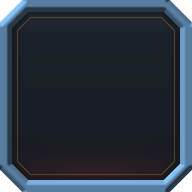
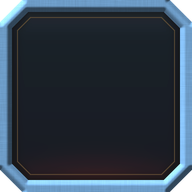
RARE MINDS: the Soul Race is the main view of the match — during the answer window the cars sit on the track at their souls with each player's live typing, skulls and death-zone flag in the lane; a car revs and leaps when its player locks in; after the reveal they drive on. Each character always dri

Changed region(s): [[0.0, 0.0, 1.0, 1.0]]

diff --git a/core/src/main/java/com/erni/finalanswer/rareminds/RareMindsRace.java b/core/src/main/java/com/erni/finalanswer/rareminds/RareMindsRace.java
@@ -14,7 +14,19 @@ import java.util.*;
 final class RareMindsRace {
     /** one lane as the screen hands it over */
     record Lane(String name,String character,String answer,boolean answered,boolean valid,boolean collided,int sharedWith,boolean ghost,
-                int tier,double share,int earned,boolean jackpot,int jackpotSouls,boolean eliminated,boolean resurrected,long fromSouls,long souls){}
+                int tier,double share,int earned,boolean jackpot,int jackpotSouls,boolean eliminated,boolean resurrected,long fromSouls,long souls,
+                String live,boolean locked,float lockAge,int skulls,boolean zone){
+        /** a lane during the answer window: cars parked at their souls, live typing in the left column */
+        static Lane waiting(String name,String character,boolean ghost,long souls,String live,boolean locked,float lockAge,int skulls,boolean zone){
+            return new Lane(name,character,"",false,false,false,0,ghost,0,0,0,false,0,false,false,souls,souls,live,locked,lockAge,skulls,zone);}
+    }
+    /** Each character always drives the same colour (never recoloured by state: easy to follow across the match). */
+    static Color carColor(String character){return switch(character==null?"":character){
+        case "skeleton"->new Color(.92f,.90f,.84f,1);case "ghost"->new Color(.45f,.85f,1f,1);case "zombie"->new Color(.45f,.85f,.35f,1);case "dracula"->new Color(.85f,.12f,.16f,1);
+        case "pumpkin"->new Color(1f,.55f,.12f,1);case "plague_doctor"->new Color(.62f,.42f,.95f,1);case "voodoo"->new Color(.98f,.80f,.25f,1);case "puppeteer"->new Color(.25f,.45f,1f,1);
+        default->new Color(.8f,.8f,.8f,1);};}
+    /** smoothed lane slot per player (lanes are ordered by souls and slide when someone overtakes) */
+    private final Map<String,Float> slot=new HashMap<>();private final Map<String,Integer> lastRank=new HashMap<>();private final Map<String,Float> upAt=new HashMap<>();private float lastClock=-1;
     static final float START=.9f,STAGGER=.12f,DRIVE=2.4f;
     /** shares at the zone boundaries (same as the server tiers) and the scale ends */
     private static final double TOP=.25,BOTTOM=.0015;private static final double[] EDGES={.080,.045,.022,.010,.004};
@@ -24,9 +36,10 @@ final class RareMindsRace {
     private static float pos(double share){return MathUtils.clamp((float)((Math.log(TOP)-Math.log(Math.max(share,1e-6)))/(Math.log(TOP)-Math.log(BOTTOM))),0,1);}
     private static float easeOut(float t){t=MathUtils.clamp(t,0,1);float u=1-t;return 1-u*u*u;}
 
-    void draw(float x,float y,float w,float h,String title,List<Lane> lanes,String[] tierNames,boolean fin,float t,float clock,String lockedText,String noJackpot){
+    void draw(float x,float y,float w,float h,String title,List<Lane> lanes,String[] tierNames,boolean fin,float t,float clock,String lockedText,String noJackpot){draw(x,y,w,h,title,lanes,tierNames,fin,t,clock,lockedText,noJackpot,false);}
+    void draw(float x,float y,float w,float h,String title,List<Lane> lanes,String[] tierNames,boolean fin,float t,float clock,String lockedText,String noJackpot,boolean live){
         art.panel(x,y,w,h,1,fin?RareMindsArt.RED:null);
-        art.text(art.mid,title,x+w/2,y+h-22,.78f,RareMindsArt.IVORY,1,w-80);
+        if(live)art.text(art.big,title,x+w/2,y+h-14,.82f,RareMindsArt.IVORY,1,w-80);else art.text(art.mid,title,x+w/2,y+h-22,.78f,RareMindsArt.IVORY,1,w-80);
         float tx0=x+330,tx1=x+w-120,top=y+h-96,bottom=y+40;int n=Math.max(1,lanes.size());float rowH=Math.min(76,(top-bottom)/n);
         float laneTop=top,laneBottom=top-rowH*n;
         // distance scale: souls, rescaled so the leader stays near the flag
@@ -37,26 +50,51 @@ final class RareMindsRace {
         art.rect(tx0,laneTop,tx1-tx0,2,RareMindsArt.GOLD,.6f);
         art.text(art.tiny,art_tr("ДУШИ ЗА ИГРУ","SOULS THIS GAME"),tx1-60,laneBottom-10,.6f,RareMindsArt.DIM,.8f,0);
         // places after this question
-        List<Lane> order=new ArrayList<>(lanes);order.sort((a,b)->Long.compare(b.souls(),a.souls()));
-        for(int k=0;k<6;k++)tierNames[k]=tierNames[k];
-        float lockA=MathUtils.clamp(1-(t-START+.2f)*3,0,1);
-        for(int i=0;i<lanes.size();i++){Lane l=lanes.get(i);float ry=laneTop-(i+1)*rowH,cy=ry+rowH/2;
-            if(i%2==0)art.rect(x+16,ry,w-32,rowH,Color.WHITE,.025f);
-            if(arrivedAll(t,n))art.textRight(art.num,"#"+(order.indexOf(l)+1),tx0-12,cy+14,.5f,order.indexOf(l)==0?RareMindsArt.GOLD:RareMindsArt.DIM,1);
+        float dt=lastClock<0?1:Math.min(.1f,clock-lastClock);lastClock=clock;
+        if(live)t=99;float lockA=live?0:MathUtils.clamp(1-(t-START+.2f)*3,0,1);
+        float tt=live?99:t;float[] cur=new float[lanes.size()];
+        for(int i=0;i<lanes.size();i++){Lane l=lanes.get(i);float q=(tt-START-i*STAGGER)/DRIVE;cur[i]=l.fromSouls()+(l.souls()-l.fromSouls())*easeOut(q);}
+        Integer[] idx=new Integer[lanes.size()];for(int i=0;i<idx.length;i++)idx[i]=i;
+        Arrays.sort(idx,(a,b)->cur[a]!=cur[b]?Float.compare(cur[b],cur[a]):Integer.compare(a,b));
+        int[] rank=new int[lanes.size()];for(int k=0;k<idx.length;k++)rank[idx[k]]=k;
+        for(int i=0;i<lanes.size();i++){String key=lanes.get(i).name();Integer before=lastRank.get(key);if(before!=null&&rank[i]<before)upAt.put(key,clock);lastRank.put(key,rank[i]);
+            float sv=slot.getOrDefault(key,(float)rank[i]);sv+=(rank[i]-sv)*Math.min(1,dt*5.5f);slot.put(key,sv);}
+        for(int i=0;i<lanes.size();i++){Lane l=lanes.get(i);float sl=slot.get(l.name());float ry=laneTop-(sl+1)*rowH,cy=ry+rowH/2;
+            Float up=upAt.get(l.name());if(up!=null&&clock-up<1.4f){float a=1-(clock-up)/1.4f;art.rect(x+16,ry,w-32,rowH,new Color(.3f,1f,.45f,1),.10f*a);art.text(art.mid,"▲",x+28+2,cy+14+(1-a)*12,.7f,new Color(.35f,1f,.5f,1),a,0);}
+            if(rank[i]%2==0)art.rect(x+16,ry,w-32,rowH,Color.WHITE,.025f);
             float lt=(t-START-i*STAGGER)/DRIVE;boolean arrived=lt>=1;
             // left column: portrait, name, answer
             Texture face=art.face(l.character());float fs=rowH-14;
             if(face!=null){batch().setColor(l.ghost()?.6f:1,l.ghost()?.8f:1,1,l.ghost()?.7f:1);batch().draw(face,x+24,ry+7,fs,fs);}
             art.textLeft(art.small,l.name(),x+34+fs,cy+24,.82f,l.ghost()?RareMindsArt.GHOST:RareMindsArt.IVORY,1);
+            if(live){
+                // skulls next to the name, then what the player is typing right now
+                float sx=x+34+fs+art.width(art.small,l.name(),.82f)+14;
+                for(int k=0;k<3;k++){Color sc=k<l.skulls()?(l.ghost()?RareMindsArt.GHOST:RareMindsArt.RED):new Color(.3f,.24f,.22f,1);batch().setColor(sc);batch().draw(art.skull,sx+k*24,cy+4,22,22);}
+                String txt=l.live()==null?"":l.live();boolean blink=((int)(clock*2))%2==0;
+                String shown=txt.isEmpty()?(l.locked()?"":"…"):txt+(l.locked()||!blink?"":"|");
+                art.textLeft(art.small,ellipsize(shown,20),x+34+fs,cy-4,.78f,l.locked()?RareMindsArt.GOLD:Color.WHITE,txt.isEmpty()?.4f:1);
+                if(l.locked())art.textRight(art.tiny,art_tr("ГОТОВ","LOCKED"),tx0-16,cy-6,.72f,RareMindsArt.GOLD,1);
+                if(l.zone())art.textRight(art.tiny,art_tr("ЗОНА СМЕРТИ","DEATH ZONE"),tx0-16,cy+26,.62f,RareMindsArt.RED_SOFT,.7f+.3f*MathUtils.sin(clock*5));
+            }else{
             String ans=!l.answered()?art_tr("нет ответа","no answer"):l.answer();
-            art.textLeft(art.tiny,ellipsize(ans,22),x+34+fs,cy-6,.8f,!l.valid()?RareMindsArt.DIM:l.collided()?RareMindsArt.RED_SOFT:RareMindsArt.TIER[l.tier()],Math.min(1,Math.max(0,lt*3)));
+            art.textLeft(art.tiny,ellipsize(ans,22),x+34+fs,cy-6,.8f,!l.valid()?RareMindsArt.DIM:l.collided()?RareMindsArt.RED_SOFT:RareMindsArt.TIER[l.tier()],Math.min(1,Math.max(0,lt*3)));}
             // the racer
             float from=l.fromSouls()/scale,to=l.souls()/scale,f=from+(to-from)*easeOut(lt);
             float rx=tx0+f*(tx1-tx0),shake=l.collided()&&arrived?MathUtils.sin(clock*60)*Math.max(0,1-(lt-1)*2)*5:0;
-            Color c=!l.valid()?RareMindsArt.DIM:l.collided()&&arrived?RareMindsArt.RED:l.ghost()?RareMindsArt.GHOST:RareMindsArt.TIER[l.tier()];
+            Color c=carColor(l.character());if(l.collided()&&arrived)art.glow(rx,cy,160,90,RareMindsArt.RED,.5f*Math.max(0,1-(lt-1)));
             if(lt>0&&lt<1.6f&&to>from){float fx=tx0+from*(tx1-tx0),tw=rx-fx;batch().setBlendFunction(GL20.GL_SRC_ALPHA,GL20.GL_ONE);
                 for(int k=0;k<10;k++){float a=.035f*(k+1);batch().setColor(c.r,c.g,c.b,a);batch().draw(art.pixel,fx+tw*k/10f,cy-3,tw/10f+1,6);}
                 batch().setBlendFunction(GL20.GL_SRC_ALPHA,GL20.GL_ONE_MINUS_SRC_ALPHA);}
+            if(live){
+                // engine revs: idle shiver; on locking in the car leaps forward and settles, exhaust flaring
+                c=carColor(l.character());
+                float age=l.lockAge(),leap=l.locked()&&age>=0&&age<1.2f?MathUtils.sin(Math.min(1,age/1.2f)*MathUtils.PI)*38:0;
+                float idle=l.locked()?0:MathUtils.sin(clock*38+i)*1.2f;
+                if(leap>0){batch().setBlendFunction(GL20.GL_SRC_ALPHA,GL20.GL_ONE);for(int k=0;k<4;k++){batch().setColor(1f,.55f,.2f,.25f*(1-age/1.2f));batch().draw(art.soft,rx+leap-70-k*22,cy-10-k*2,40+k*14,24+k*6);}batch().setBlendFunction(GL20.GL_SRC_ALPHA,GL20.GL_ONE_MINUS_SRC_ALPHA);}
+                car(rx+leap+idle,cy+(l.locked()?0:Math.abs(idle)*.6f),Math.min(1.1f,rowH/62f),c,l.ghost(),leap>0);
+                continue;
+            }
             car(rx+shake,cy,Math.min(1.1f,rowH/62f),c,l.ghost(),lt>0&&lt<1);
             if(l.jackpot()&&t>arrival(n-1)+.3f){float a=easeOut((t-arrival(n-1)-.3f)*2);art.glow(rx,cy,220,140,RareMindsArt.GOLD,.35f*a);
                 batch().setColor(RareMindsArt.GOLD.r,RareMindsArt.GOLD.g,RareMindsArt.GOLD.b,a);batch().draw(art.crown,rx-20,cy+16,40,40);}

diff --git a/core/src/main/java/com/erni/finalanswer/rareminds/RareMindsScreen.java b/core/src/main/java/com/erni/finalanswer/rareminds/RareMindsScreen.java
@@ -118,7 +118,8 @@ public final class RareMindsScreen extends ScreenAdapter {
         String ph=phase();
         if(ph.equals("FINAL_RESULTS")||ph.equals("COMPLETED"))standings();
         else if(revealPhase())raceBoard(fin);
-        else{questionPanel(ph,fin);cards();}
+        else if(ph.equals("QUESTION_ACTIVE"))liveRace(fin);
+        else{questionPanel(ph,fin);reflectedCards();}
         ticker();
         embers(dt);
         art.shade(W/2,H/2,W*1.25f,H*1.25f,0);batch.setColor(0,0,0,.0f);
@@ -254,11 +255,24 @@ public final class RareMindsScreen extends ScreenAdapter {
         if(r!=null){int k=tierIndex(s(r,"tier"));
             art.text(art.small,answerLabel(r)+"  ·  "+tierName(s(r,"tier"))+"  ·  +"+i(r,"jackpotSouls")+Localization.tr(" душ"," souls")+(i(r,"jackpotStreak")>1?Localization.tr("  ·  серия ×","  ·  streak ×")+i(r,"jackpotStreak"):""),cx,y+92,.86f,RareMindsArt.TIER[k],a,w-80);}
     }
+    private final Map<String,Float> lockedAt=new HashMap<>();
+    /** The answer window on the same race track: cars parked at their souls, live typing per lane, a car revs and leaps when its player locks in. */
+    private void liveRace(boolean fin){
+        List<RareMindsRace.Lane> lanes=new ArrayList<>();
+        for(var p:players()){String id=s(p,"id");JsonObject l=live(id);boolean locked=b(p,"submitted")||l!=null&&b(l,"locked");
+            if(locked)lockedAt.putIfAbsent(id+"#"+i(rm,"question"),clock);
+            float age=locked?clock-lockedAt.get(id+"#"+i(rm,"question")):-1;
+            String txt=l==null?"":s(l,"text");if(!liveShown&&!txt.isEmpty())txt=locked?Localization.tr("ответ готов","locked in"):Localization.tr("печатает…","typing…");
+            lanes.add(RareMindsRace.Lane.waiting(name(id),s(roster(id),"characterId"),!b(p,"alive"),l(p,"souls"),txt,locked,age,i(p,"collisions"),b(p,"deathZone")));}
+        String[] names=new String[6];var tiers=rm.getAsJsonArray("tiers");for(int k=0;k<6;k++)names[k]=tierName(s(tiers.get(k).getAsJsonObject(),"id"));
+        String q=ru()?s(rm,"textRu"):s(rm,"textEn");
+        race.draw(430,128,1060,632,q,lanes,names,fin,0,clock,"","",true);
+    }
     private void raceBoard(boolean fin){
         List<RareMindsRace.Lane> lanes=new ArrayList<>();
         for(var p:players()){String id=s(p,"id");JsonObject r=row(id);if(r==null)continue;
             lanes.add(new RareMindsRace.Lane(name(id),s(roster(id),"characterId"),answerLabel(r),!s(r,"text").isEmpty(),b(r,"valid"),b(r,"collided"),i(r,"sharedWith"),b(r,"ghost"),
-                tierIndex(s(r,"tier")),r.has("share")?r.get("share").getAsDouble():.5,i(r,"earned"),b(r,"jackpot"),i(r,"jackpotSouls"),b(r,"eliminated"),b(r,"resurrected"),before.containsKey(id)?l(before.get(id),"souls"):Math.max(0,l(r,"souls")-i(r,"earned")-i(r,"jackpotSouls")),l(r,"souls")));}
+                tierIndex(s(r,"tier")),r.has("share")?r.get("share").getAsDouble():.5,i(r,"earned"),b(r,"jackpot"),i(r,"jackpotSouls"),b(r,"eliminated"),b(r,"resurrected"),before.containsKey(id)?l(before.get(id),"souls"):Math.max(0,l(r,"souls")-i(r,"earned")-i(r,"jackpotSouls")),l(r,"souls"),"",false,-1,0,false));}
         String[] names=new String[6];var tiers=rm.getAsJsonArray("tiers");for(int k=0;k<6;k++)names[k]=tierName(s(tiers.get(k).getAsJsonObject(),"id"));
         String q=(ru()?s(rm,"textRu"):s(rm,"textEn"));
         race.draw(430,128,1060,632,Localization.tr("ГОНКА ДУШ · ","SOUL RACE · ")+(fin?Localization.tr("ФИНАЛ · ","FINAL · "):Localization.tr("ВОПРОС ","QUESTION ")+i(rm,"question")+"/"+i(rm,"questions")+" · ")+q,lanes,names,fin,sinceLock(),clock,
@@ -268,6 +282,24 @@ public final class RareMindsScreen extends ScreenAdapter {
     private static String markLast(String t){String s=t.replace("[","[[");int k=s.trim().lastIndexOf(' ');if(k<0)return s;return s.substring(0,k+1)+"[#FF4A3A]"+s.substring(k+1)+"[]";}
 
     // ---------------------------------------------------------------- players
+    private com.badlogic.gdx.graphics.glutils.FrameBuffer cardFb;
+    /** The card row is drawn into a buffer once, then shown twice: upright, and mirrored and faded on the glossy floor. */
+    private void reflectedCards(){
+        int fw=1920,fh=400;float y0=110;
+        if(cardFb==null)cardFb=new com.badlogic.gdx.graphics.glutils.FrameBuffer(Pixmap.Format.RGBA8888,fw*2,fh*2,false);
+        batch.end();cardFb.begin();Gdx.gl.glClearColor(0,0,0,0);Gdx.gl.glClear(GL20.GL_COLOR_BUFFER_BIT);
+        var m=new com.badlogic.gdx.math.Matrix4().setToOrtho2D(0,y0,fw,fh);batch.setProjectionMatrix(m);
+        batch.setBlendFunctionSeparate(GL20.GL_SRC_ALPHA,GL20.GL_ONE_MINUS_SRC_ALPHA,GL20.GL_ONE,GL20.GL_ONE_MINUS_SRC_ALPHA);batch.begin();cards();batch.end();
+        cardFb.end();vp.apply();batch.setProjectionMatrix(cam.combined);batch.setBlendFunction(GL20.GL_ONE,GL20.GL_ONE_MINUS_SRC_ALPHA);batch.begin();
+        Texture t=cardFb.getColorBufferTexture();
+        // mirror: only the lower part of the cards, fading out, on the stage floor
+        float rh=150;batch.setColor(.55f,.42f,.40f,.30f);
+        batch.draw(t,0,y0-rh+18,fw,rh,0,0,t.getWidth(),(int)(t.getHeight()*rh/fh),false,false);
+        batch.setColor(Color.WHITE);batch.draw(t,0,y0,fw,fh,0,0,t.getWidth(),t.getHeight(),false,true);
+        batch.setBlendFunction(GL20.GL_SRC_ALPHA,GL20.GL_ONE_MINUS_SRC_ALPHA);
+        // fade the reflection into the floor
+        for(int k=0;k<12;k++){batch.setColor(.03f,.01f,.01f,.06f*k);batch.draw(art.pixel,0,y0-rh+18+k*rh/12f*0,fw,rh*(1-k/12f));}
+    }
     private void cards(){
         var ps=players();int n=ps.size();float cw=170,ch=262,gap=n>6?14:22,total=n*cw+(n-1)*gap,x0=W/2-total/2,y=128;
         for(int k=0;k<n;k++){JsonObject live=ps.get(k);String id=s(live,"id");JsonObject p=shown(live);Fx f=fx(id);
@@ -293,7 +325,7 @@ public final class RareMindsScreen extends ScreenAdapter {
                 float sx=x+14+s2*32,sy=y+50-sz/2;
                 if(on){Color c=ghost?RareMindsArt.GHOST:RareMindsArt.RED;batch.setColor(c);}else batch.setColor(.32f,.26f,.24f,1);
                 batch.draw(art.skull,sx,sy,sz,sz);}
-            art.text(art.tiny,String.format(Locale.ROOT,"%,d",l(p,"souls")).replace(',',' ')+Localization.tr(" душ"," souls"),x+cw/2,y+27,.74f,RareMindsArt.GOLD,1,cw-12);
+            String soulTxt=String.format(Locale.ROOT,"%,d",l(p,"souls")).replace(',',' ');float stw=art.width(art.num,soulTxt,.42f);batch.setColor(1f,.55f,.2f,1);batch.draw(art.flame,x+cw/2-stw/2-24,y+9,20,20);art.textLeft(art.num,soulTxt,x+cw/2-stw/2+2,y+27,.42f,RareMindsArt.GOLD,1);
             if(ghost&&r==null)ghostPips(p,x+cw/2,y+ch+12);
             if(r!=null)answerPlate(r,x+cw/2,y+ch+16,cw+gap-6,ease(f.pop));
             if(zone&&!ghost&&r==null)art.text(art.tiny,Localization.tr("ЗОНА СМЕРТИ","DEATH ZONE"),x+cw/2,y+ch+30,.8f,RareMindsArt.RED_SOFT,.75f+.25f*MathUtils.sin(clock*5),cw);
@@ -304,7 +336,7 @@ public final class RareMindsScreen extends ScreenAdapter {
         if(!active)return;JsonObject l=live(id);String t=l==null?"":s(l,"text");boolean locked=b(p,"submitted")||l!=null&&b(l,"locked");
         boolean col=l!=null&&l.has("possibleCollision")&&l.getAsJsonArray("possibleCollision").size()>0;
         Color edge=col?new Color(1f,.69f,.18f,1):locked?RareMindsArt.GOLD:new Color(1,1,1,.18f);
-        art.rect(x,y,w,h,new Color(0,0,0,.75f),1);art.rect(x,y,w,2,edge,col?.6f+.4f*MathUtils.sin(clock*8):1);
+        batch.setColor(Color.WHITE);art.slot.setColor(Color.WHITE);art.slot.draw(batch,x,y,w,h);art.rect(x+8,y+3,w-16,2,edge,(col?.6f+.4f*MathUtils.sin(clock*8):locked?.9f:0));
         String shown;Color c;
         if(!liveShown){shown=t.isEmpty()?"":locked?Localization.tr("ответ готов","locked in"):Localization.tr("печатает","typing")+".".repeat(1+(int)(clock*3)%3);c=RareMindsArt.DIM;}
         else if(t.isEmpty()){shown="";c=RareMindsArt.DIM;}
@@ -399,5 +431,5 @@ public final class RareMindsScreen extends ScreenAdapter {
     }
 
     private static float ease(float t){t=MathUtils.clamp(t,0,1);return t*t*(3-2*t);}
-    @Override public void dispose(){if(!created)return;batch.dispose();art.dispose();sfx.dispose();}
+    @Override public void dispose(){if(!created)return;if(cardFb!=null)cardFb.dispose();batch.dispose();art.dispose();sfx.dispose();}
 }

diff --git a/core/src/main/java/com/erni/finalanswer/rareminds/RareMindsArt.java b/core/src/main/java/com/erni/finalanswer/rareminds/RareMindsArt.java
@@ -21,7 +21,7 @@ final class RareMindsArt implements Disposable {
     final Texture background,pixel,soft,skull,crown,ring,car,wheels;
     final BitmapFont title,big,mid,small,tiny,num;
     /** pre-rendered materials from tools/assets/rare_minds/make_ui.py */
-    final Texture titleArt,bezel,gemTex,grain;final NinePatch frame,frameRed,frameGhost,card,cardRed,cardGhost,tab;
+    final Texture titleArt,bezel,gemTex,grain,flame;final NinePatch slot,frame,frameRed,frameGhost,card,cardRed,cardGhost,tab;
     private final java.util.List<Texture> owned=new java.util.ArrayList<>();
     private Texture ui(String n){Texture t=new Texture(Gdx.files.internal("rare_minds/ui/"+n),true);t.setFilter(Texture.TextureFilter.MipMapLinearLinear,Texture.TextureFilter.Linear);owned.add(t);return t;}
     private NinePatch nine(String n,int edge){return new NinePatch(ui(n),edge,edge,edge,edge);}
@@ -34,7 +34,7 @@ final class RareMindsArt implements Disposable {
         Pixmap p=new Pixmap(1,1,Pixmap.Format.RGBA8888);p.setColor(Color.WHITE);p.fill();pixel=new Texture(p);p.dispose();
         titleArt=ui("title.png");bezel=ui("bezel.png");gemTex=ui("gem.png");grain=new Texture(Gdx.files.internal("rare_minds/ui/grain.png"));grain.setWrap(Texture.TextureWrap.Repeat,Texture.TextureWrap.Repeat);owned.add(grain);
         frame=nine("panel.png",40);frameRed=nine("panel_red.png",40);frameGhost=nine("panel_ghost.png",40);card=nine("card.png",30);cardRed=nine("card_red.png",30);cardGhost=nine("card_ghost.png",30);tab=nine("tab.png",28);
-        soft=radial();skull=skull();crown=crown();ring=ring();car=car(false);wheels=car(true);
+        soft=radial();skull=ui("skull.png");flame=ui("flame.png");slot=nine("slot.png",14);crown=crown();ring=ring();car=car(false);wheels=car(true);
         // Russo One (display, numbers) + Noto Sans SemiCondensed SemiBold (everything read at a glance); both carry Cyrillic
         title=font("ui/fonts/RussoOne-Regular.ttf",118,3);big=font("ui/fonts/RussoOne-Regular.ttf",58,0);num=font("ui/fonts/RussoOne-Regular.ttf",40,0);
         mid=font("ui/fonts/NotoSans-SemiCondensedSemiBold.ttf",38,0);small=font("ui/fonts/NotoSans-SemiCondensedSemiBold.ttf",28,0);tiny=font("ui/fonts/NotoSans-SemiCondensedSemiBold.ttf",22,0);
@@ -44,7 +44,7 @@ final class RareMindsArt implements Disposable {
         var g=new com.badlogic.gdx.graphics.g2d.freetype.FreeTypeFontGenerator(Gdx.files.internal(file));
         try{var p=new com.badlogic.gdx.graphics.g2d.freetype.FreeTypeFontGenerator.FreeTypeFontParameter();p.size=size;p.kerning=true;
             StringBuilder c=new StringBuilder(com.badlogic.gdx.graphics.g2d.freetype.FreeTypeFontGenerator.DEFAULT_CHARS);for(char ch='\u0400';ch<='\u04ff';ch++)c.append(ch);
-            p.characters=c.append("\u2013\u2014\u2018\u2019\u201c\u201d\u00ab\u00bb\u2026\u00b7\u00d7\u2212").toString();
+            p.characters=c.append("\u2013\u2014\u2018\u2019\u201c\u201d\u00ab\u00bb\u2026\u00b7\u00d7\u2212\u25b2").toString();
             if(border>0){p.borderWidth=border;p.borderColor=new Color(.10f,.03f,.02f,1);}
             p.minFilter=Texture.TextureFilter.Linear;p.magFilter=Texture.TextureFilter.Linear;return g.generateFont(p);}finally{g.dispose();}
     }
@@ -144,5 +144,5 @@ final class RareMindsArt implements Disposable {
         for(int y=0;y<n;y++)for(int x=0;x<n;x++){float a=0;for(int j=0;j<s;j++)for(int i=0;i<s;i++)a+=(big.getPixel(x*s+i,y*s+j)&0xff)/255f;p.drawPixel(x,y,Color.rgba8888(1,1,1,a/(s*s)));}
         Texture t=new Texture(p);t.setFilter(Texture.TextureFilter.Linear,Texture.TextureFilter.Linear);p.dispose();return t;}
 
-    @Override public void dispose(){for(Texture t:owned)t.dispose();background.dispose();pixel.dispose();soft.dispose();skull.dispose();crown.dispose();ring.dispose();car.dispose();wheels.dispose();title.dispose();big.dispose();num.dispose();mid.dispose();small.dispose();tiny.dispose();for(Texture t:faces.values())if(t!=null)t.dispose();}
+    @Override public void dispose(){for(Texture t:owned)t.dispose();background.dispose();pixel.dispose();soft.dispose();crown.dispose();ring.dispose();car.dispose();wheels.dispose();title.dispose();big.dispose();num.dispose();mid.dispose();small.dispose();tiny.dispose();for(Texture t:faces.values())if(t!=null)t.dispose();}
 }

diff --git a/tools/assets/rare_minds/make_ui.py b/tools/assets/rare_minds/make_ui.py
@@ -71,7 +71,10 @@ def frame(name, w, h, r, rim, inset_tint=(16, 7, 8), accent=None, gem=True):
     shade, hgt = bevel(ring, RIMW * .5)
     ys = np.linspace(0, 1, H)[:, None] * np.ones((1, W)); xs = np.ones((H, 1)) * np.linspace(0, 1, W)[None, :]
     metal = np.clip(ramp(GOLD, np.clip(.05 + (1 - shade) * .55 + ys * .25, 0, 1)) * (.7 + .5 * shade[..., None]), 0, 255) if accent is None else np.array(accent)[None, None, :] * (.35 + .9 * shade[..., None])
-    metal = metal * (.8 + .25 * np.sin(xs * 40 + ys * 9)[..., None] * 0)  # (reserved: brushed texture)
+    rng = np.random.default_rng(w * 7 + h)
+    brush = ndimage.gaussian_filter(rng.normal(0, 1, (H, W)), (0.4, 9)) + ndimage.gaussian_filter(rng.normal(0, 1, (H, W)), (9, 0.4))
+    scratch = (rng.random((H, W)) > .9993).astype(float); scratch = ndimage.gaussian_filter(ndimage.uniform_filter1d(scratch, 23, axis=1), .5) * 40
+    metal = metal * (1 + .07 * brush[..., None]) + scratch[..., None] * 3
     # fine engraved line inside the rim
     d_in = ndimage.distance_transform_edt(im)
     groove = (d_in > 5 * S) & (d_in < 6.2 * S)
@@ -124,7 +127,43 @@ def grain(name, size=256):
     rng = np.random.default_rng(7); n = rng.normal(128, 40, (size, size)); n = ndimage.gaussian_filter(n, .6)
     rgba(np.dstack([n, n, n]), np.full((size, size), 255)).save(os.path.join(OUT, name))
 
+def slot(name, w=96, h=48, r=10):
+    """engraved inset slot: dark recess, inner shadow on top, light catch on the bottom lip, thin gold rim"""
+    S = 2; W, H = w * S, h * S
+    m = Image.new('L', (W, H)); ImageDraw.Draw(m).rounded_rectangle((0, 0, W - 1, H - 1), r * S, fill=255); om = np.array(m) > 127
+    i = Image.new('L', (W, H)); ImageDraw.Draw(i).rounded_rectangle((3 * S, 3 * S, W - 1 - 3 * S, H - 1 - 3 * S), (r - 2) * S, fill=255); im = np.array(i) > 127
+    ys = np.linspace(0, 1, H)[:, None] * np.ones((1, W))
+    rgb = np.zeros((H, W, 3)); rgb[:] = (6, 3, 4)
+    d = ndimage.distance_transform_edt(im); top = np.clip(1 - d / (10 * S), 0, 1) * (ys < .5)
+    rgb = rgb * (1 - .5 * top[..., None]) + (np.array([30, 16, 12]) * (ys[..., None] ** 3))
+    rim = om & ~im; shade, _ = bevel(rim, 2 * S, light=(0, .9, .5)); rgb[rim] = ramp(RIM, 1 - shade)[rim] * .8
+    rgba(rgb, np.where(om, 245, 0)).resize((w, h), Image.LANCZOS).save(os.path.join(OUT, name)); print(name)
+
+def icon(name, draw, size=96):
+    """white beveled icon (tinted at draw time) from a mask drawing function"""
+    S = 4; N = size * S; m = Image.new('L', (N, N)); draw(ImageDraw.Draw(m), N); mask = np.array(m) > 127
+    shade, hgt = bevel(mask, N * .06); v = (.45 + .7 * shade) * 255
+    v = v + np.clip((shade - .8) * 5, 0, 1) * 120
+    ol = ndimage.binary_dilation(mask, iterations=S * 2) & ~mask
+    rgb = np.dstack([v, v, v]); rgb[ol] = 20; a = np.where(mask | ol, 255, 0)
+    rgba(rgb, a).resize((size, size), Image.LANCZOS).save(os.path.join(OUT, name)); print(name)
+
+def skull_draw(d, N):
+    s = N / 64
+    d.ellipse((10 * s, 6 * s, 54 * s, 46 * s), fill=255); d.rounded_rectangle((18 * s, 34 * s, 46 * s, 56 * s), 5 * s, fill=255)
+    d.ellipse((17 * s, 22 * s, 30 * s, 35 * s), fill=0); d.ellipse((34 * s, 22 * s, 47 * s, 35 * s), fill=0)
+    d.polygon([(32 * s, 36 * s), (28.5 * s, 43 * s), (35.5 * s, 43 * s)], fill=0)
+    for k in range(4): d.rectangle(((23 + k * 5.5) * s, 48 * s, (24.6 + k * 5.5) * s, 56 * s), fill=0)
+
+def flame_draw(d, N):
+    s = N / 64
+    d.polygon([(32 * s, 4 * s), (46 * s, 26 * s), (50 * s, 42 * s), (42 * s, 56 * s), (22 * s, 56 * s), (14 * s, 42 * s), (20 * s, 24 * s), (26 * s, 32 * s)], fill=255)
+    d.ellipse((16 * s, 30 * s, 48 * s, 60 * s), fill=255); d.ellipse((25 * s, 38 * s, 39 * s, 56 * s), fill=0)
+
 if __name__ == '__main__':
+    slot('slot.png')
+    icon('skull.png', skull_draw)
+    icon('flame.png', flame_draw)
     title('RARE MINDS', 220, 'title.png')
     frame('panel.png', 192, 192, 22, 12, gem=False)
     frame('panel_red.png', 192, 192, 22, 12, inset_tint=(26, 6, 6), accent=(230, 60, 44), gem=False)
